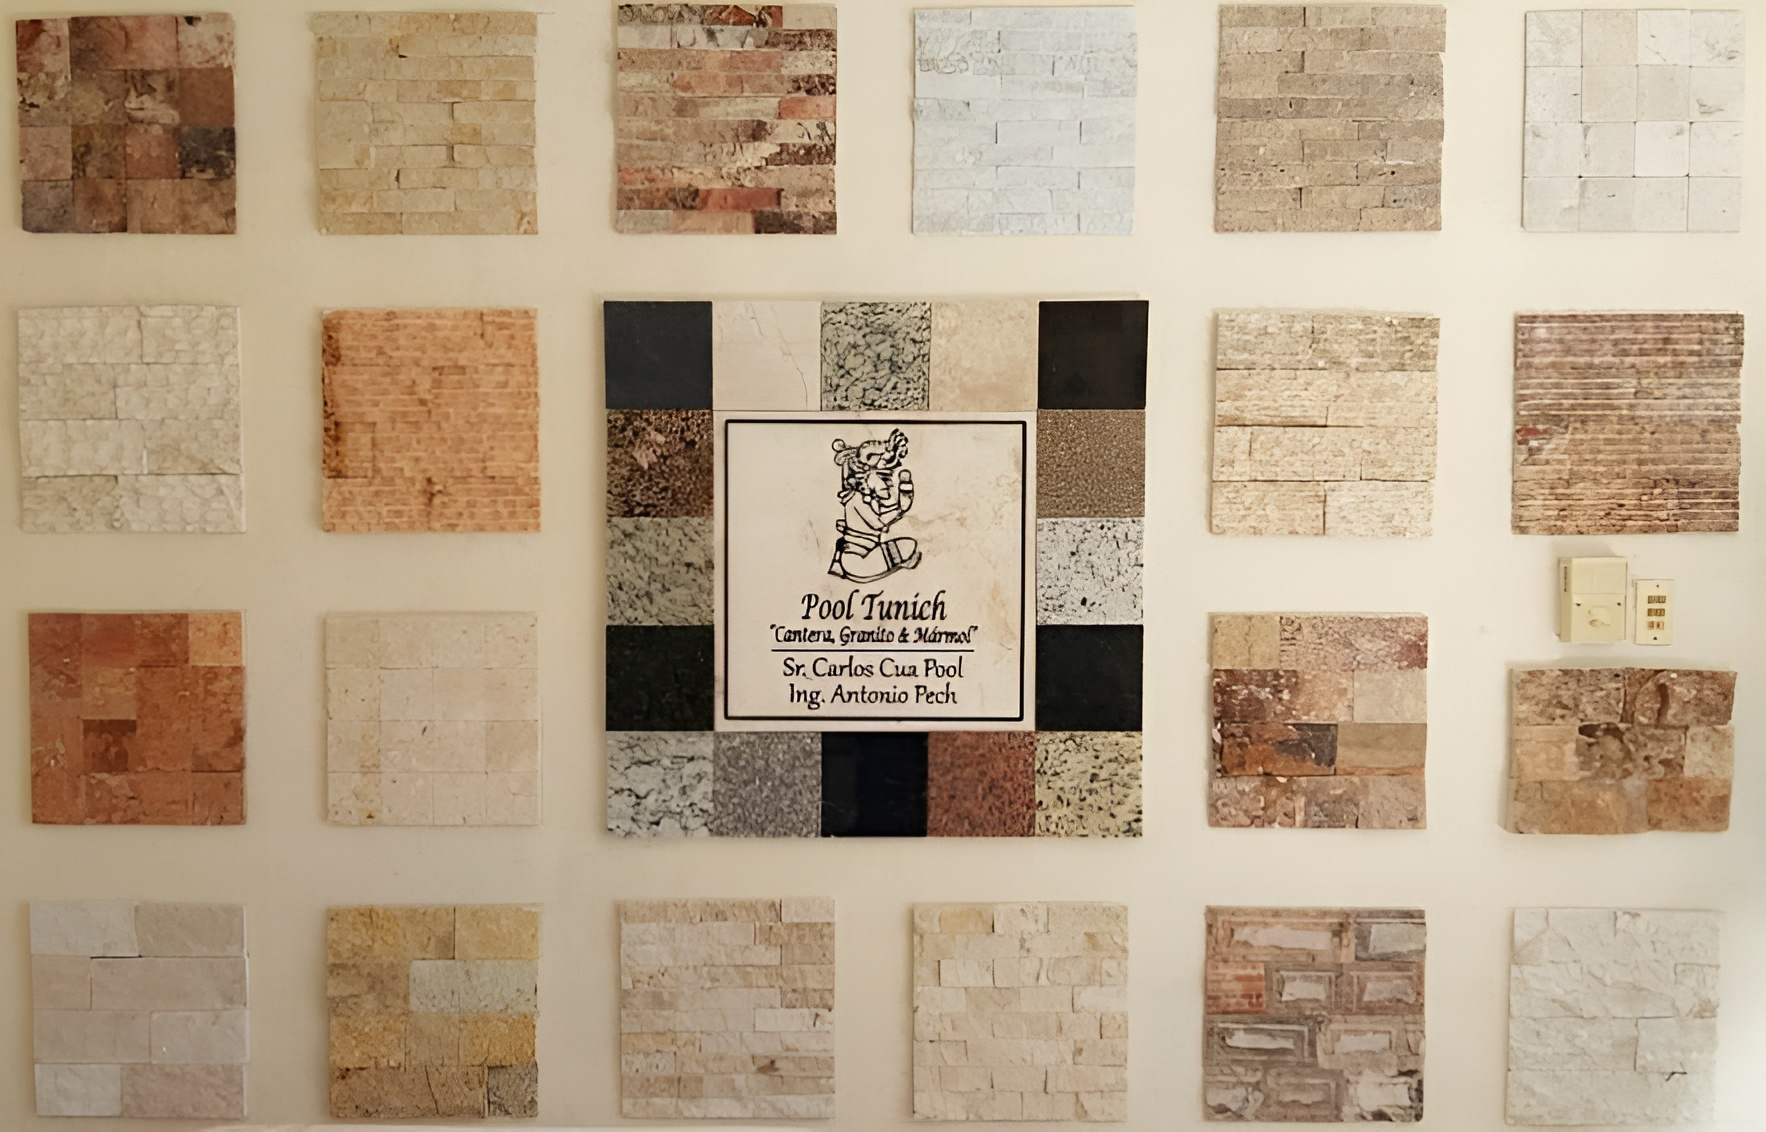
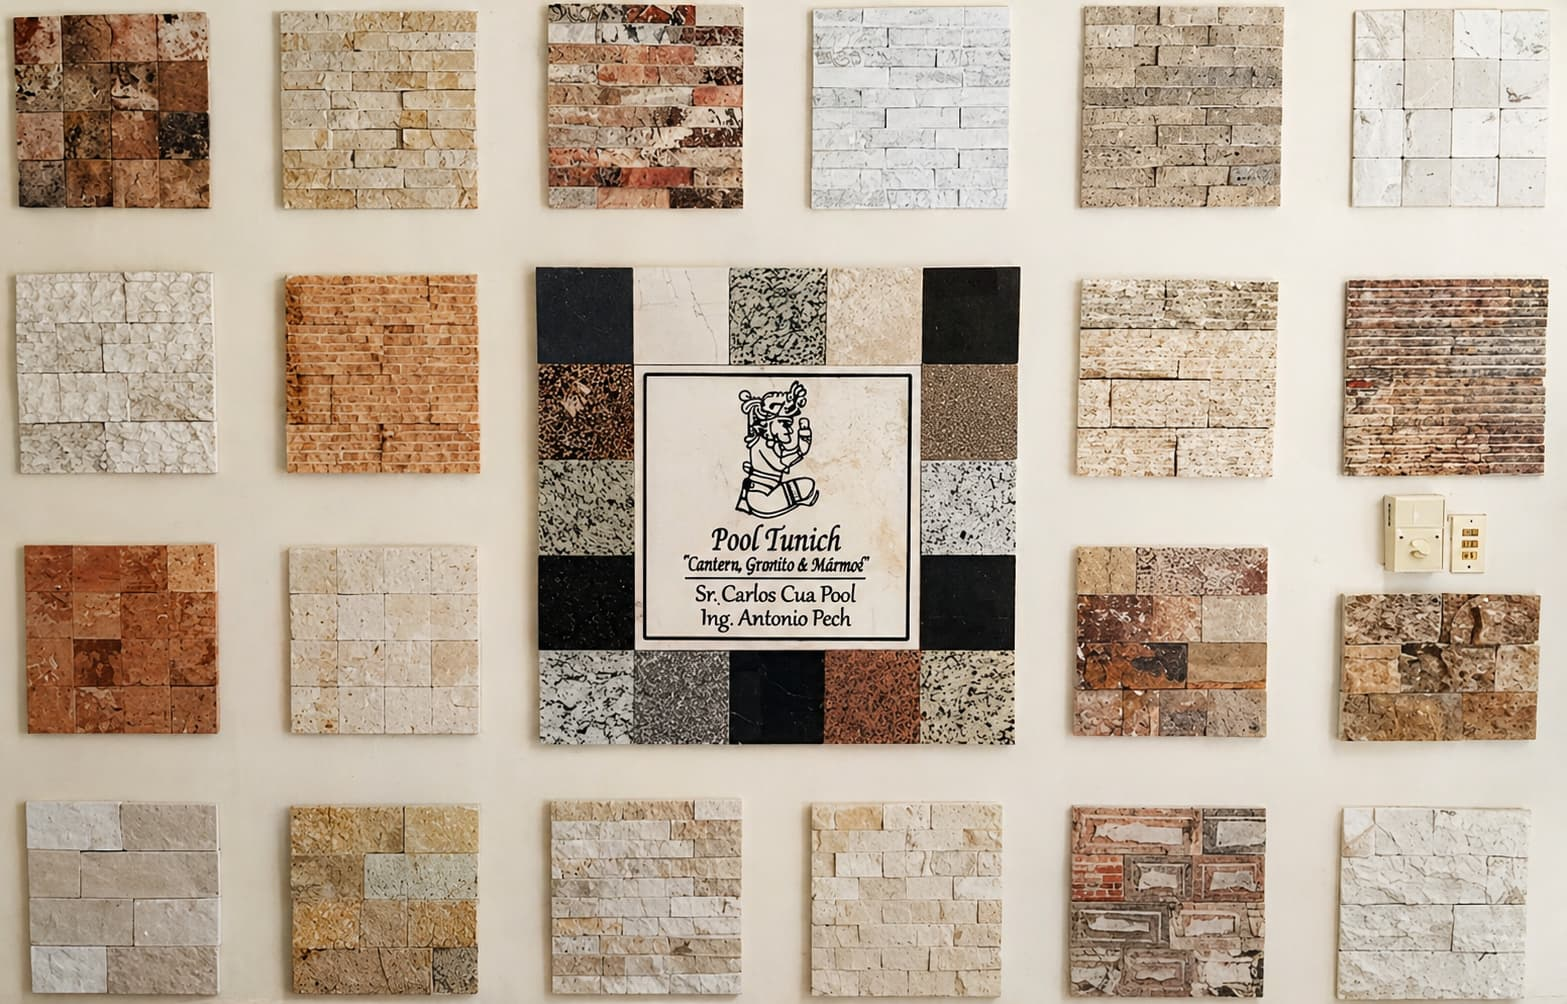
style: :zap: Styles - Refactor styles

diff --git a/src/app/sections/productos/productos.component.html b/src/app/sections/productos/productos.component.html
@@ -6,7 +6,7 @@
     <div class="productos-list">
 
       <div class="producto-item">
-        <img src="images/pisos.png" alt="Pisos y pavimentos">
+        <img src="images/pisos.jpg" alt="Pisos y pavimentos">
         <div class="producto-overlay">
           <div class="producto-name">Pisos y pavimentos</div>
         </div>
@@ -20,42 +20,42 @@
       </div>
 
       <div class="producto-item">
-        <img src="images/tinas.png" alt="Tinas y lavabos">
+        <img src="images/tinas.jpg" alt="Tinas y lavabos">
         <div class="producto-overlay">
           <div class="producto-name">Tinas y lavabos</div>
         </div>
       </div>
 
       <div class="producto-item">
-        <img src="images/cocina.png" alt="Mesadas de cocina">
+        <img src="images/cocina.jpg" alt="Mesadas de cocina">
         <div class="producto-overlay">
           <div class="producto-name">Mesadas de cocina</div>
         </div>
       </div>
 
       <div class="producto-item">
-        <img src="images/escaleras.png" alt="Escaleras y peldaños">
+        <img src="images/escaleras.jpg" alt="Escaleras y peldaños">
         <div class="producto-overlay">
           <div class="producto-name">Escaleras y peldaños</div>
         </div>
       </div>
 
       <div class="producto-item">
-        <img src="images/columnas.png" alt="Columnas y arcos">
+        <img src="images/columnas.jpg" alt="Columnas y arcos">
         <div class="producto-overlay">
           <div class="producto-name">Columnas y arcos</div>
         </div>
       </div>
 
       <div class="producto-item">
-        <img src="images/mosaicos.png" alt="Mosaicos decorativos">
+        <img src="images/mosaicos.jpg" alt="Mosaicos decorativos">
         <div class="producto-overlay">
           <div class="producto-name">Mosaicos decorativos</div>
         </div>
       </div>
 
       <div class="producto-item">
-        <img src="images/tabletas.png" alt="Placas y tabletas">
+        <img src="images/tabletas.jpg" alt="Placas y tabletas">
         <div class="producto-overlay">
           <div class="producto-name">Placas y tabletas</div>
         </div>

diff --git a/src/styles.css b/src/styles.css
@@ -193,7 +193,7 @@ nav.scrolled {
   position: absolute;
   inset: 0;
   /* background-image: url("../public/images/pool-tunich-1.png"); */
-  background-image: url("../public/images/pool-tunich-2.png");
+  background-image: url("../public/images/pool-tunich-2.jpg");
   background-size: cover;
   background-position: center;
   filter: brightness(.30) saturate(.1);
@@ -250,7 +250,7 @@ nav.scrolled {
 
 .hero-eyebrow {
   font-family: 'Cinzel', serif;
-  font-size: .90rem;
+  font-size: clamp(.40rem, 2.5vw, 1rem);
   letter-spacing: .35em;
   color: var(--gold);
   text-transform: uppercase;
@@ -259,7 +259,7 @@ nav.scrolled {
 
 .hero h1 {
   font-family: 'Cinzel', serif;
-  font-size: clamp(6rem, 7vw, 5.5rem);
+  font-size: clamp(2.5rem, 7vw, 6rem);
   font-weight: 700;
   color: var(--cream);
   line-height: 1.1;
@@ -272,7 +272,7 @@ nav.scrolled {
   font-family: 'Cormorant Garamond', serif;
   font-style: italic;
   font-weight: 300;
-  font-size: clamp(3rem, 3.5vw, 2.4rem);
+  font-size: clamp(1.2rem, 3.5vw, 2.5rem);
   color: var(--gold-lt);
   letter-spacing: .08em;
   margin-top: .5rem;
@@ -287,7 +287,7 @@ nav.scrolled {
 
 .hero-desc {
   font-family: 'Cormorant Garamond', serif;
-  font-size: clamp(1.5rem, 2.5vw, 1.3rem);
+  font-size: clamp(.90rem, 2.5vw, 1.3rem);
   color: var(--marble);
   max-width: 560px;
   margin: 0 auto 2.4rem;
@@ -586,7 +586,7 @@ section {
 }
 
 .mat-granito {
-  background-image: url("../public/images/granito-1.png");
+  background-image: url("../public/images/granito-1.jpg");
   background-size: cover;
   background-position: center;
   background-repeat: no-repeat;
@@ -595,7 +595,7 @@ section {
 }
 
 .mat-marmol {
-  background-image: url("../public/images/marmol-1.png");
+  background-image: url("../public/images/marmol-1.jpg");
   background-size: cover;
   background-position: center;
   background-repeat: no-repeat;

diff --git a/src/app/sections/galeria/galeria.component.html b/src/app/sections/galeria/galeria.component.html
@@ -3,7 +3,7 @@
       <p class="section-label">Portafolio</p>
       <h2 class="section-title" style="color:var(--cream);">Galería de materiales</h2>
       <div class="section-line"></div>
-      <img src="images/background-welcome.png" alt="Muestras de cantera, granito y mármol" class="gallery-main"
+      <img src="images/background-welcome.jpg" alt="Muestras de cantera, granito y mármol" class="gallery-main"
         style="margin-top:2rem;" />
       <p
         style="margin-top:1.2rem;font-family:'Cormorant Garamond',serif;font-style:italic;color:var(--stone);font-size:.95rem;text-align:center;">

diff --git a/src/app/sections/nosotros/nosotros.component.html b/src/app/sections/nosotros/nosotros.component.html
@@ -34,7 +34,7 @@
       </div>
 
       <div class="nosotros-img-wrap">
-        <img src="images/background-welcome.png" alt="Muestras de materiales Pool Tunich">
+        <img src="images/background-welcome.jpg" alt="Muestras de materiales Pool Tunich">
       </div>
 
     </div>

diff --git a/src/app/sections/hero/hero.component.html b/src/app/sections/hero/hero.component.html
@@ -3,7 +3,7 @@
   <div class="hero-overlay"></div>
 
   <div class="hero-content">
-    <img src="images/logo.png" class="hero-logo">
+    <img src="images/logo.jpg" class="hero-logo">
 
     <p class="hero-eyebrow">Dzityá, Mérida, Yucatán · Desde la cantera hasta su obra</p>
 

diff --git a/src/app/layout/navbar/navbar.component.html b/src/app/layout/navbar/navbar.component.html
@@ -1,6 +1,6 @@
 <nav id="navbar">
   <a class="nav-logo" href="#inicio">
-    <img src="images/logo.png">
+    <img src="images/logo.jpg">
     <div class="nav-logo-text">
       Pool Tunich
       <span>Cantera · Granito · Mármol</span>

diff --git a/src/app/layout/footer/footer.component.html b/src/app/layout/footer/footer.component.html
@@ -1,5 +1,5 @@
 <footer>
-  <img src="images/logo.png" class="footer-logo">
+  <img src="images/logo.jpg" class="footer-logo">
 
   <div class="footer-name">Pool Tunich</div>
   <div class="footer-tag">Cantera · Granito · Mármol</div>
